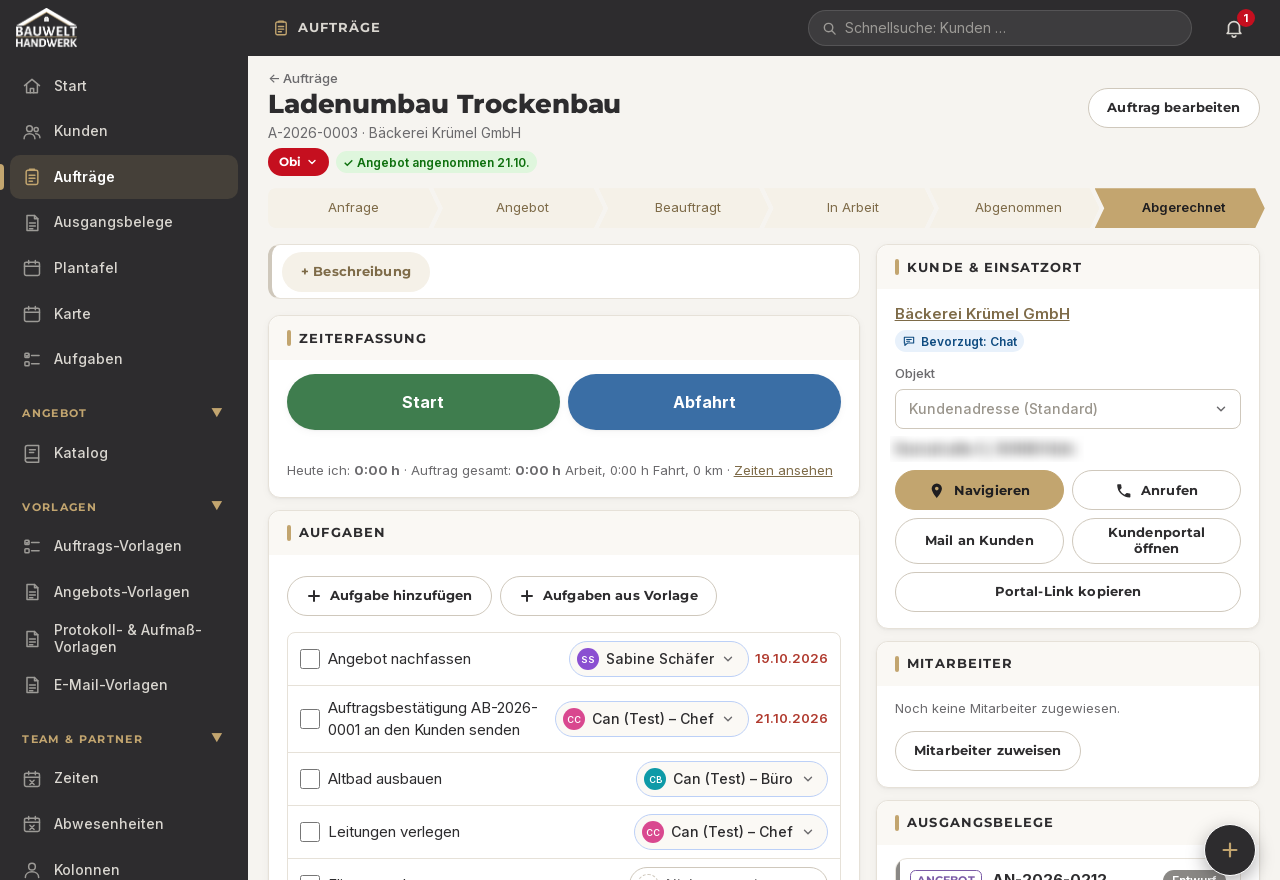
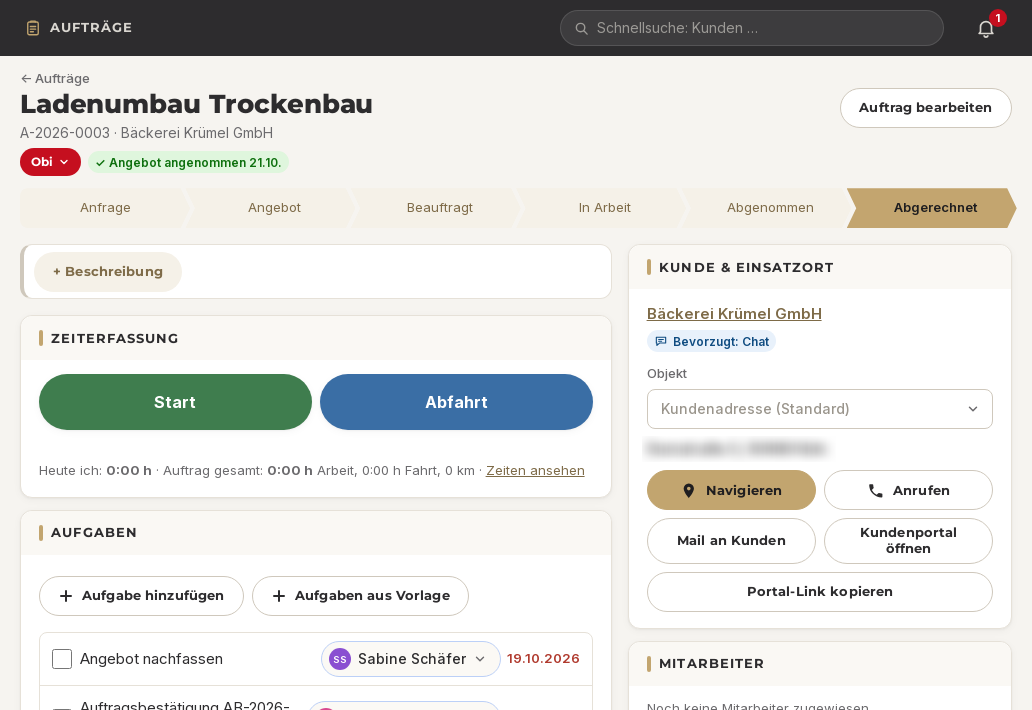
Startseite: 4. Tab „Individuell“ mit Modul-Mockup, Auftrag-Bild ohne Seitenleiste, Abschnitt 4 als Kartenstapel, neue Texte (Jamil #6427–#6429)
- Wechsler: Tab 4 „Individuell“ (Zitat + Erklärung sachlich von uns formuliert), Baukasten-Mockup (Termine, Material, Team-App,
  Schnittstellen, Auswertungen, Dokumente → „Ihr Betrieb“), Label „… für Ihren Betrieb …“; Handy-Segmentleiste mit 4 Tabs
- Bauwelt-Auftrag neu zugeschnitten (Auftrag statt dunkler Menüleiste sichtbar)
- Abschnitt 4: ab 900 px Kartenstapel (sticky, gestaffelt, gleich hoch, deckend); Handy/reduced-motion normale Liste
- Hero Satz 1 und Abschnitt-4-Subheadline nach #6429 („2a“)

diff --git a/src/config/start-6176.ts b/src/config/start-6176.ts
@@ -66,7 +66,8 @@ export const J_HERO = {
   titel: `Stark nach außen. ${HERO_WORT} nach innen.`,
   // Subheadline seit Jamil #6376 (19.11.2026) WÖRTLICH; davor kurz (#6366/#6368, Variante 1): 'Viele Unternehmen haben eine Website, aber
   // kein System dahinter. Wir entwickeln Webauftritte und Software, die nahtlos ineinandergreifen – für begeisterte Kunden und produktive Teams.'
-  unter: 'Standard-Tools passen selten zum echten Arbeitsalltag. Wir entwickeln Ihren Webauftritt und maßgeschneiderte Software, die exakt so funktioniert, wie Ihr Betrieb arbeitet.',
+  // Satz 1 seit Jamil #6429 („2a“); vorher 'Standard-Tools passen selten zum echten Arbeitsalltag.'
+  unter: 'Fertige Standard-Programme passen selten zu Ihrem echten Arbeitsalltag. Wir entwickeln Ihren Webauftritt und maßgeschneiderte Software, die exakt so funktioniert, wie Ihr Betrieb arbeitet.',
   zeile: 'Keine Tickets. Kein CMS. Keine Technikkenntnisse.',
   knopf: 'Kostenlose Beratung', // Ziel: Kontakt, Anliegen Erstberatung (ANLIEGEN.erstberatung)
   knopf2: 'Beispiele ansehen', // Ziel: /beispiele/
@@ -139,6 +140,7 @@ export const J_MASS = {
   titel: 'Websites und Software nach Maß – statt Kompromisse von der Stange',
   unter: 'Wir bauen genau die Werkzeuge, die in Ihrem Betrieb bisher gefehlt haben. Ohne 100 unnötige Funktionen, dafür exakt auf Ihre echten Abläufe zugeschnitten.',
   label: 'Individuell programmiert für Bauwelt Handwerk – 100\u00a0% eigene Abläufe', // seit Jamil #6384 (vorher „… für Musterfirma GmbH …“)
+  labelIndividuell: 'Individuell programmiert für Ihren Betrieb – 100\u00a0% eigene Abläufe', // 4. Tab (#6427), Beispiel-Mockup
   labelMuster: 'Individuell programmiert für Musterfirma GmbH – 100\u00a0% eigene Abläufe', // nur mit ALT_ZEIGEN.musterfirmaMockupsAlt
   /** Echte Referenz Bauwelt Handwerk (Jamil #6384/#6385): Bildschirmfotos in src/assets/bilder/referenzen/ (Herkunft: QUELLEN.md).
    *  `bild` = Name für <Bild>, `alt` = Alt-Text. Link nur beim Kalkulator. */
@@ -150,7 +152,9 @@ export const J_MASS = {
       { bild: 'referenzen/bauwelt-kundenportal', alt: 'Kundenportal von Bauwelt Handwerk mit Testdaten: nächster Termin, ein wartendes Angebot zum Annehmen oder Ablehnen, Fortschritt des Auftrags „Ladenumbau Trockenbau“ und persönlicher Projektbegleiter.' },
     ],
   },
-  tabsLabel: 'Drei Beispiele aus dem Alltag',
+  tabsLabel: 'Vier Beispiele aus dem Alltag', // seit #6427 vier Tabs
+  /** Bausteine im Mockup des 4. Tabs (#6427), nur Deko (aria-hidden; Text für Screenreader = `zeigt`) */
+  module: ['Termine', 'Material', 'Team-App', 'Schnittstellen', 'Auswertungen', 'Dokumente'],
   /** Kleiner Hinweis im Wechsler (Jamil #6424, Wortlaut vom Koordinator vorgeschlagen) */
   browserKurz: 'Läuft im Browser – ohne Installation, auf PC, Tablet und Handy',
   /** Hinweis unter dem Wechsler (Jamil #6397, wörtlich; seit #6424 nur mit ALT_ZEIGEN.browserBox) */
@@ -171,6 +175,11 @@ export const J_MASS = {
       titel: 'Ein eigenes Kundenportal mit Login',
       zeigt: 'Eine aufgeräumte Ansicht für den Endkunden: „Ihr Auftrag ist in Fertigung“, dazu alle Angebote, Pläne und Rechnungen an einem Ort zum Download.',
       warum: 'Ein eigenes Portal im Design der Firma – das gibt es nicht von der Stange und lässt das Unternehmen extrem professionell wirken.' },
+    // 4. Tab (Jamil #6427): nahezu jeder Wunsch umsetzbar – Wortlaut von uns, sachlich formuliert
+    { kurz: 'Individuell', problem: '„Unser Ablauf ist besonders – dafür gibt es keine fertige Lösung.“',
+      titel: 'Software, die sich nach Ihrem Betrieb richtet',
+      zeigt: 'Einzelne Bausteine wie Termine, Material, Team-App, Schnittstellen, Auswertungen und Dokumente, die zu einem gemeinsamen System verbunden sind.',
+      warum: 'Ob Terminbuchung, Materialverwaltung, Mitarbeiter-App oder Schnittstelle zu bestehenden Programmen: Nahezu jede Anforderung lässt sich umsetzen – genau zugeschnitten auf Ihren Betrieb.' },
   ],
 } as const;
 
@@ -178,7 +187,8 @@ export const J_MASS = {
  *  sind nur Deko (aria-hidden) und wiederholen, was im Kartentext steht. Der Blitz (⚡) ist ein eigenes SVG-Icon. */
 export const J_ERST = {
   titel: 'Kein Lastenheft. Kein Risiko. Erst sehen, dann entscheiden.',
-  unter: 'Sie müssen weder seitenlange Konzepte schreiben noch die Katze im Sack kaufen. Wir denken uns in Ihren Betrieb hinein und liefern Ihnen kostenlos einen echten ersten Entwurf.',
+  // seit Jamil #6429 („2a“); vorher: 'Sie müssen weder seitenlange Konzepte schreiben noch die Katze im Sack kaufen. Wir denken uns in Ihren Betrieb hinein und liefern Ihnen kostenlos einen echten ersten Entwurf.'
+  unter: 'Sie benötigen weder ein umfangreiches Konzept noch gehen Sie ein Risiko ein. Wir arbeiten uns in Ihre Abläufe ein und erstellen Ihnen kostenlos einen ersten konkreten Entwurf.',
   karten: [
     { nr: '01', titel: 'Wir verstehen Ihren Betrieb (oder starten direkt)',
       varianten: [

diff --git a/src/styles/mass-6379.css b/src/styles/mass-6379.css
@@ -103,7 +103,7 @@
 
 /* Handy: Segmentleiste, Zitat über dem Mockup, höheres Mockup mit größerer Schrift */
 @media (max-width: 899px) {
-  .jm__tabs { grid-template-columns: repeat(3, minmax(0, 1fr)); gap: 4px; padding: 4px; border-radius: 16px; background: var(--paper-2, #efebe3); }
+  .jm__tabs { grid-template-columns: repeat(4, minmax(0, 1fr)); gap: 4px; padding: 4px; border-radius: 16px; background: var(--paper-2, #efebe3); }
   .jm-tab { display: flex; justify-content: center; gap: 6px; padding: 10px 6px; border: 0; border-radius: 12px; background: transparent; text-align: center; }
   .jm-tab[aria-selected="true"] { background: var(--white); box-shadow: 0 6px 16px -10px rgb(0 0 0 / 35%); }
   .jm-tab__nr { display: none; }
@@ -149,3 +149,24 @@
   .jm__panels { grid-column: 2; grid-row: 1 / span 2; }
 }
 @media (max-width: 899px) { .jm-hinweis { order: 3; } .jm__panels { order: 2; } .jm__tabs { order: 1; } }
+
+/* 4. Tab „Individuell“ (Jamil #6427): Modul-Kacheln rund um einen Kern, mit feinen Verbindungslinien (Größen in cqw wie die anderen Mockups) */
+.mk-module { position: relative; height: 100%; display: grid; grid-template-columns: repeat(3, minmax(0, 1fr)); grid-template-rows: 1fr auto 1fr;
+  gap: 1.1em 1.2em; align-items: center; padding: 1.6em 1.8em; }
+.mk-module::before { content: ''; position: absolute; inset: 22% 18%; border: 0.12em dashed #b9dccd; border-radius: 1.2em; }
+.mk-kern { grid-column: 2; grid-row: 2; z-index: 1; justify-self: center; padding: 0.8em 1.2em; border-radius: 0.9em; background: #0b6d6b; color: var(--white);
+  font-weight: 800; font-size: 1.05em; text-align: center; box-shadow: 0 0.6em 1.4em -0.8em rgb(11 109 107 / 70%); }
+.mk-modul { z-index: 1; display: flex; align-items: center; gap: 0.5em; padding: 0.75em 0.9em; border-radius: 0.8em; background: var(--white);
+  border: 1px solid #dfe6e3; box-shadow: 0 0.4em 1em -0.7em rgb(31 41 55 / 35%); font-weight: 700; font-size: 0.95em; color: #1f2937; min-width: 0; }
+.mk-modul i { flex: none; width: 0.85em; height: 0.85em; border-radius: 0.25em; background: #2c9a7a; }
+.mk-modul--1 i { background: #e7a92a; } .mk-modul--2 i { background: #2f5fd0; } .mk-modul--3 i { background: #0b6d6b; }
+.mk-modul--4 i { background: #b5483a; } .mk-modul--5 i { background: #7a6f62; }
+.mk-modul--0 { grid-column: 1; grid-row: 1; } .mk-modul--1 { grid-column: 2; grid-row: 1; } .mk-modul--2 { grid-column: 3; grid-row: 1; }
+.mk-modul--3 { grid-column: 1; grid-row: 3; } .mk-modul--4 { grid-column: 2; grid-row: 3; } .mk-modul--5 { grid-column: 3; grid-row: 3; }
+@media (max-width: 899px) { .mk-module { gap: 0.8em; padding: 1.2em 1em; } .mk-modul { font-size: 0.85em; padding: 0.6em 0.6em; } }
+/* Handy mit 4 Tabs (Jamil #6427): kleinere Beschriftung, Wörter nicht zerhacken */
+@media (max-width: 899px) {
+  .jm-tab { padding: 10px 2px; }
+  .jm .jm-tab__kurz { font-size: 0.8rem; overflow-wrap: normal; word-break: normal; letter-spacing: 0; }
+}
+@media (max-width: 380px) { .jm .jm-tab__kurz { font-size: 0.7rem; } }

diff --git a/src/styles/erst-6388.css b/src/styles/erst-6388.css
@@ -36,3 +36,19 @@
   .je-sprache__welle i { animation: je-welle 1.4s ease-in-out infinite alternate; animation-delay: calc(var(--i) * -90ms); }
 }
 @keyframes je-welle { from { transform: scaleY(1); } to { transform: scaleY(0.45); } }
+
+/* Kartenstapel (Jamil #6428): ab 900 px volle Breite, jede Karte bleibt kleben (sticky) und die nächste schiebt sich darüber.
+   Gleich hohe Karten (min-height), deckender Hintergrund, leichter Schatten; Reihenfolge im DOM bleibt (Tastatur/Screenreader normal).
+   Handy und prefers-reduced-motion: normale Liste. */
+.je-karte__links, .je-karte__rechts { display: flex; flex-direction: column; gap: 12px; min-width: 0; }
+@media (min-width: 900px) and (prefers-reduced-motion: no-preference) {
+  .je-karten { grid-template-columns: minmax(0, 1fr); gap: 28px; padding-bottom: 8px; }
+  .je-karte { --je-top: calc(var(--je-kopf, 96px) + var(--je-n, 0) * 14px); position: sticky; top: var(--je-top);
+    display: grid; grid-template-columns: minmax(0, 0.85fr) minmax(0, 1.15fr); gap: 12px clamp(24px, 4vw, 64px); align-items: start;
+    min-height: min(440px, calc(100vh - var(--je-top) - 40px)); background: var(--white);
+    box-shadow: 0 -2px 0 0 rgb(255 255 255 / 0), 0 18px 40px -28px rgb(8 78 76 / 45%), 0 1px 2px rgb(8 78 76 / 6%); }
+  .je-karte:nth-child(2) { --je-n: 1; } .je-karte:nth-child(3) { --je-n: 2; }
+  html.j6-an .je-karte.j6-ein { opacity: 1; translate: none; } /* kein Einblenden im Stapel: sonst schimmert die vorige Karte durch */
+  .je-karte__titel { font-size: clamp(1.3rem, 1.1rem + 0.7vw, 1.7rem); }
+}
+@media (min-width: 900px) and (prefers-reduced-motion: reduce) { .je-karten { grid-template-columns: repeat(3, minmax(0, 1fr)); } }

diff --git a/src/assets/bilder/QUELLEN.md b/src/assets/bilder/QUELLEN.md
@@ -48,5 +48,5 @@ Im Wechsler „Websites und Software nach Maß“ der Startseite (`components/st
 | Datei | Herkunft |
 |---|---|
 | `referenzen/bauwelt-kalkulator.png` | Neu aufgenommen 19.11.2026 (Playwright, 960 × 660 px, 2×) von https://www.bauwelt-handwerk.de/rechner/ – Badsanierung 8 m², nur angesehen, nichts abgeschickt |
-| `referenzen/bauwelt-auftrag.png` | Vorhandenes Bildschirmfoto aus der CRM-Testumgebung (Nextcloud Team/CRM System/Screenshots Kontaktweg 02.11.2026, `4-auftrag-desktop.png`), nur Testdaten; Einsatzort-Adresse unscharf gemacht |
+| `referenzen/bauwelt-auftrag.png` | Vorhandenes Bildschirmfoto aus der CRM-Testumgebung (Nextcloud Team/CRM System/Screenshots Kontaktweg 02.11.2026, `4-auftrag-desktop.png`), nur Testdaten; Einsatzort-Adresse unscharf gemacht; seit #6427 ohne linke Menüleiste zugeschnitten |
 | `referenzen/bauwelt-kundenportal.png` | Vorhandenes Bildschirmfoto aus einem CRM-Testlauf (27.10.2026, Testdaten), oberer Teil; Fußzeile mit Kontaktdaten abgeschnitten |
